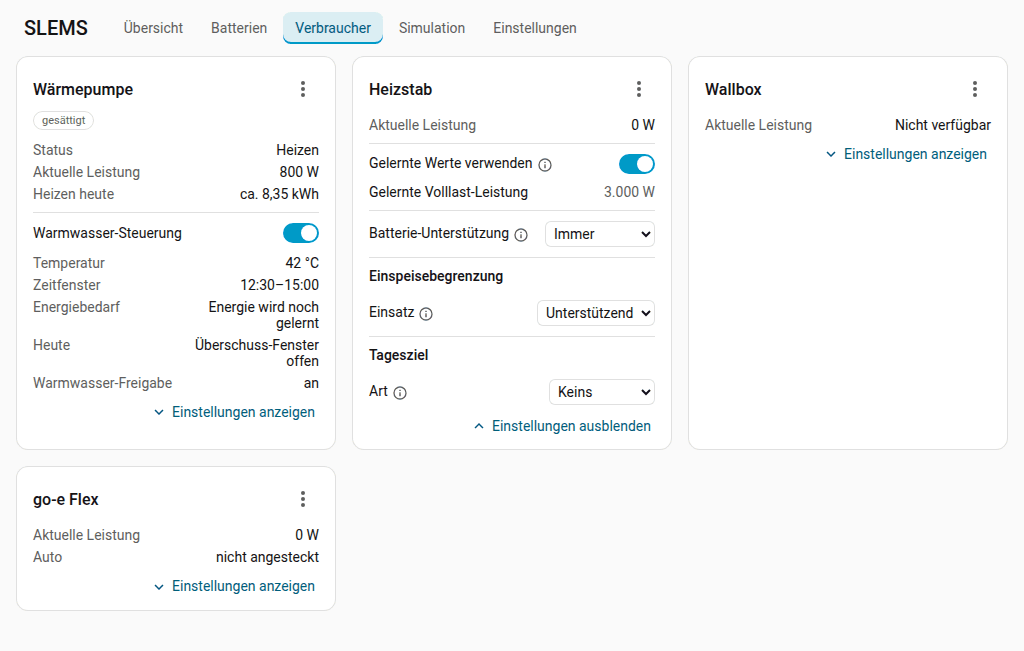
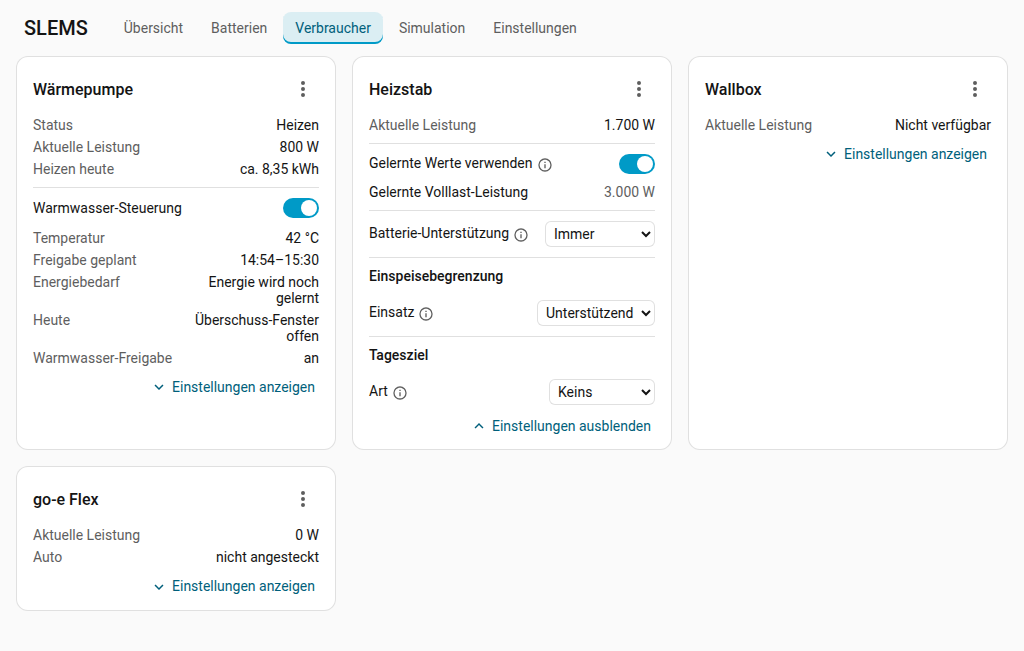
Daily target lanes: the release is one span (planned surplus window and release before the forced run merged where they overlap, two spans with a gap otherwise), the surplus window outlined in the PV colour (with the source "surplus only" only the outline), forced run and deadline as before, a legen

Changed region(s): [[0.0312, 0.1536, 0.3125, 0.6452], [0.5938, 0.1843, 0.625, 0.2151]]

diff --git a/custom_components/slems/frontend/slems-panel.js b/custom_components/slems/frontend/slems-panel.js
@@ -197,6 +197,7 @@ const STRINGS = {
     forecastToday: "Forecast today",
     aboutEnergy: "about {energy}",
     timeWindow: "Time window",
+    releasePlanned: "Release planned",
     energyNeed: "Energy needed",
     targetEnergyToday: "today about {energy}",
     enableControl: "Turn control on",
@@ -286,7 +287,9 @@ const STRINGS = {
     lanePeriod: "period {from}–{until}",
     laneWindow: "release {from}–{until}",
     laneForced: "forced {from}–{until}",
+    laneRunning: "running, until about {until}",
     laneDone: "reached",
+    laneLegend: { period: "Period", release: "Release", surplus: "Surplus window", forced: "Forced", running: "Running", deadline: "Deadline" },
     targetLatestPrice: "from {time} in the cheapest window",
     targetForcedPrice: "running in the cheapest window",
     targetDone: "reached",
@@ -958,6 +961,7 @@ const STRINGS = {
     forecastToday: "Prognose heute",
     aboutEnergy: "ca. {energy}",
     timeWindow: "Zeitfenster",
+    releasePlanned: "Freigabe geplant",
     energyNeed: "Energiebedarf",
     targetEnergyToday: "heute ca. {energy}",
     enableControl: "Steuerung einschalten",
@@ -1047,7 +1051,9 @@ const STRINGS = {
     lanePeriod: "Zeitraum {from}–{until}",
     laneWindow: "Freigabe {from}–{until}",
     laneForced: "erzwungen {from}–{until}",
+    laneRunning: "läuft, bis ca. {until}",
     laneDone: "erreicht",
+    laneLegend: { period: "Zeitraum", release: "Freigabe", surplus: "Überschuss-Fenster", forced: "Erzwungen", running: "Läuft", deadline: "Frist" },
     targetLatestPrice: "ab {time} im günstigsten Fenster",
     targetForcedPrice: "läuft im günstigsten Fenster",
     targetDone: "erreicht",
@@ -4258,10 +4264,27 @@ class SlemsPanel extends HTMLElement {
       </svg></div>`;
   }
 
-  /** Per consumer with a daily target a lane under the day chart: its period
-   * (faint), the release window before the forced run, the forced run and the
-   * deadline, on the time axis of the chart. The spans are kept in
-   * _laneSpans for the tooltip of the day chart. */
+  /** Swatch style of a part of a daily target lane (legend and tooltip). */
+  _laneSwatch(kind) {
+    const c = this._colors;
+    return {
+      period: `background:${c.consumer};opacity:0.3`,
+      release: `background:${c.consumer};opacity:0.6`,
+      surplus: `border:2px solid ${c.pv};box-sizing:border-box`,
+      forced: `background:${c.consumer};opacity:0.9`,
+      running: `background:repeating-linear-gradient(45deg, ${c.consumer} 0 2px, transparent 2px 4px)`,
+      deadline: `background:${c.consumer};width:2px`,
+    }[kind];
+  }
+
+  /** Per consumer with a daily target a lane under the day chart, on the time
+   * axis of the chart: its period (faint), the release (the planned surplus
+   * window and the window before the forced run as one span where they
+   * overlap), the surplus window outlined, the forced run and the deadline.
+   * While a hot water charge runs the release it started in stays, the
+   * release still to come and the forced run give way to the charge until
+   * about the target temperature; an interrupted charge brings them back.
+   * The spans are kept in _laneSpans for the tooltip of the day chart. */
   _targetLanes() {
     const geometry = this._chartGeometry;
     if (!geometry) return "";
@@ -4273,7 +4296,9 @@ class SlemsPanel extends HTMLElement {
     if (this._chartDay === "tomorrow") dayStart.setDate(dayStart.getDate() + 1);
     const hourOf = (iso) => (new Date(iso) - dayStart) / 3600000;
     const x = (hour) => pad.left + (Math.max(0, Math.min(24, hour)) / 24) * plotW;
+    const visible = (from, until) => until > 0 && from < 24 && until > from;
     const lanes = [];
+    const kinds = new Set();
     for (const consumer of this._config.consumers || []) {
       const attrs = this._state("planned_power", consumer.device_id)?.attributes || {};
       if (!attrs.target_type || attrs.target_type === "none" || !attrs.target_deadline) continue;
@@ -4289,48 +4314,76 @@ class SlemsPanel extends HTMLElement {
       const opens = latest !== null && attrs.target_window_opens ? hourOf(attrs.target_window_opens) : null;
       const runEnd = latest !== null ? Math.min(end, latest + (attrs.target_run_s ? attrs.target_run_s / 3600 : end - latest)) : null;
       const clock = (hour) => this._time(new Date(dayStart.getTime() + hour * 3600000).toISOString());
+      const label = (template, from, until) => template.replace("{from}", clock(from)).replace("{until}", clock(until));
+      const surplus = attrs.target_surplus_window ? attrs.target_surplus_window.map(hourOf) : null;
+      // A hot water charge running in the period (not one the heat pump started on its own before it).
+      const nowHour = hourOf(new Date().toISOString());
+      const running = Boolean(attrs.hot_water_active) && !done && attrs.target_mode !== "waiting";
+      const runUntil = running && attrs.target_run_s ? nowHour + attrs.target_run_s / 3600 : null;
+      // Released for the surplus window (with the source "surplus only" just
+      // shown) and before the forced run; while running only up to now.
+      const releases = [];
+      if (surplus && source !== "surplus") releases.push([...surplus]);
+      if (opens !== null && latest > opens) releases.push([opens, latest]);
+      const merged = [];
+      for (const [from, until] of releases.filter(([from]) => !running || from <= nowHour).sort((a, b) => a[0] - b[0])) {
+        const last = merged[merged.length - 1];
+        if (last && from <= last[1]) last[1] = Math.max(last[1], until);
+        else merged.push([from, until]);
+      }
+      const forced = latest !== null && !running ? [latest, runEnd] : null;
       // Ordered from the most specific span, which the tooltip shows.
-      const tipSpans = [];
-      const tipSpan = (from, until, opacity, label) => {
-        if (until > 0 && from < 24 && until > from)
-          tipSpans.push({ from, until, opacity, label: label.replace("{from}", clock(from)).replace("{until}", clock(until)) });
+      const parts = [];
+      const part = (kind, from, until, template, outline = false) => {
+        if (visible(from, until)) parts.push({ kind, from, until, outline, label: label(template, from, until) });
       };
-      if (latest !== null) tipSpan(latest, runEnd, 0.9, t.laneForced);
-      if (opens !== null) tipSpan(opens, latest, 0.45, t.laneWindow);
-      const surplus = attrs.target_surplus_window;
-      if (surplus) tipSpan(hourOf(surplus[0]), hourOf(surplus[1]), 0.55, t.laneSurplus);
-      tipSpan(start, end, 0.18, done ? `${t.lanePeriod} · ${t.laneDone}` : t.lanePeriod);
-      if (tipSpans.length) this._laneSpans.push({ name: consumer.name, spans: tipSpans });
-      const span = (from, until, opacity, label) =>
-        until > 0 && from < 24 && until > from
-          ? `<rect x="${x(from)}" y="0" width="${Math.max(2, x(until) - x(from))}" height="10" rx="3" fill="${c.consumer}" fill-opacity="${opacity}"><title>${escapeHtml(
-              `${consumer.name}: ${label.replace("{from}", clock(from)).replace("{until}", clock(until))}`
-            )}</title></rect>`
-          : "";
-      const surplusSpan = surplus && hourOf(surplus[1]) > 0 && hourOf(surplus[0]) < 24
-        ? `<rect x="${x(hourOf(surplus[0]))}" y="1" width="${Math.max(2, x(hourOf(surplus[1])) - x(hourOf(surplus[0])))}" height="8" rx="3" fill="${c.pv}" fill-opacity="0.55" stroke="${c.pv}"><title>${escapeHtml(
-            `${consumer.name}: ${t.laneSurplus.replace("{from}", this._time(surplus[0])).replace("{until}", this._time(surplus[1]))}`
-          )}</title></rect>`
-        : "";
-      const shapes = [
-        span(start, end, 0.18, done ? `${t.lanePeriod} · ${t.laneDone}` : t.lanePeriod),
-        surplusSpan,
-        opens !== null ? span(opens, latest, 0.45, t.laneWindow) : "",
-        latest !== null ? span(latest, runEnd, 0.9, t.laneForced) : "",
-        end > 0 && end <= 24 ? `<line x1="${x(end)}" x2="${x(end)}" y1="-3" y2="13" stroke="${c.consumer}" stroke-width="2"/>` : "",
-      ].join("");
-      lanes.push({ name: `${consumer.name}${done ? ` · ${t.laneDone}` : ""}`, shapes });
+      if (runUntil !== null) part("running", nowHour, runUntil, t.laneRunning);
+      if (forced) part("forced", ...forced, t.laneForced);
+      if (surplus) part("surplus", ...surplus, t.laneSurplus, true);
+      for (const [from, until] of merged) part("release", from, until, t.laneWindow);
+      part("period", start, end, done ? `${t.lanePeriod} · ${t.laneDone}` : t.lanePeriod);
+      if (!parts.length) continue;
+      this._laneSpans.push({
+        name: consumer.name,
+        spans: parts.map(({ from, until, kind, label }) => ({ from, until, swatch: this._laneSwatch(kind), label })),
+      });
+      const rect = ({ kind, from, until, outline, label }) => {
+        kinds.add(kind);
+        const fill = {
+          period: `fill="${c.consumer}" fill-opacity="0.18"`,
+          release: `fill="${c.consumer}" fill-opacity="0.45"`,
+          forced: `fill="${c.consumer}" fill-opacity="0.9"`,
+          running: `fill="url(#lane-running)"`,
+        }[kind];
+        const shape = outline
+          ? `x="${x(from) + 0.75}" y="0.75" width="${Math.max(2, x(until) - x(from) - 1.5)}" height="8.5" fill="none" stroke="${c.pv}" stroke-width="1.5"`
+          : `x="${x(from)}" y="0" width="${Math.max(2, x(until) - x(from))}" height="10" ${fill}`;
+        return `<rect ${shape} rx="3"><title>${escapeHtml(`${consumer.name}: ${label}`)}</title></rect>`;
+      };
+      // Drawn from the background up: the outline of the surplus window on top.
+      const order = ["period", "release", "forced", "running", "surplus"];
+      const shapes = [...parts].sort((a, b) => order.indexOf(a.kind) - order.indexOf(b.kind)).map(rect);
+      if (end > 0 && end <= 24) {
+        kinds.add("deadline");
+        shapes.push(`<line x1="${x(end)}" x2="${x(end)}" y1="-3" y2="13" stroke="${c.consumer}" stroke-width="2"/>`);
+      }
+      lanes.push({ name: `${consumer.name}${done ? ` · ${t.laneDone}` : ""}`, shapes: shapes.join("") });
     }
     if (!lanes.length) return "";
     const laneH = 30;
     const height = lanes.length * laneH + 4;
+    const legend = ["period", "release", "surplus", "forced", "running", "deadline"]
+      .filter((kind) => kinds.has(kind))
+      .map((kind) => `<span><span class="swatch" style="${this._laneSwatch(kind)}"></span>${escapeHtml(t.laneLegend[kind])}</span>`)
+      .join("");
     return `<div class="lanes"><h3 class="lanes-title">${t.lanesTitle}</h3><svg viewBox="0 0 ${width} ${height}" width="${width}" height="${height}" class="chart" role="img" aria-label="${escapeHtml(t.lanesTitle)}">
+      <defs><pattern id="lane-running" patternUnits="userSpaceOnUse" width="4" height="4" patternTransform="rotate(45)"><rect width="2" height="4" fill="${c.consumer}"/></pattern></defs>
       ${lanes
         .map(
           (lane, i) => `<g transform="translate(0 ${i * laneH})"><text x="${pad.left}" y="9" class="tick">${escapeHtml(lane.name)}</text>
             <g transform="translate(0 14)"><line x1="${pad.left}" x2="${width - pad.right}" y1="5" y2="5" stroke="${c.grid_line}"/>${lane.shapes}</g></g>`
         )
-        .join("")}</svg></div>`;
+        .join("")}</svg><div class="lanes-legend" style="padding-left:${(pad.left / width) * 100}%">${legend}</div></div>`;
   }
 
   _chartTable(rows) {
@@ -4407,7 +4460,7 @@ class SlemsPanel extends HTMLElement {
       .map((lane) => {
         const span = lane.spans.find((s) => s.from < (slot + 1) / 2 && s.until > slot / 2);
         return span
-          ? `<div><span class="swatch" style="background:${c.consumer};opacity:${Math.max(0.35, span.opacity)}"></span>${escapeHtml(
+          ? `<div><span class="swatch" style="${span.swatch}"></span>${escapeHtml(
               lane.name
             )}<b>${escapeHtml(span.label)}</b></div>`
           : "";
@@ -5422,18 +5475,32 @@ class SlemsPanel extends HTMLElement {
     const row = (label, text) => (text ? this._row(label, escapeHtml(text), planned?.entity_id) : "");
     return (
       row(t.temperature, temperature) +
-      row(t.timeWindow, windowText) +
+      row(this._targetWindowLabel(attrs, source), windowText) +
       row(t.energyNeed, energy) +
       row(this._targetWaitsForTomorrow(attrs) ? t.targetProgressTomorrow : t.targetProgress, state) +
       this._releaseRow(c)
     );
   }
 
+  /** Whether the time window row shows a planned window (surplus window or
+   * release before the forced run) rather than the set time. */
+  _targetWindowPlanned(attrs, source) {
+    return Boolean(attrs.target_surplus_window || (source !== "surplus" && attrs.target_latest_start && attrs.target_window_opens));
+  }
+
+  /** Label of the time window row: a planned release, a surplus window only
+   * shown (source "surplus only"), else the set time. */
+  _targetWindowLabel(attrs, source) {
+    const t = this._t;
+    if (attrs.target_surplus_window && source === "surplus") return t.laneLegend.surplus;
+    return this._targetWindowPlanned(attrs, source) ? t.releasePlanned : t.timeWindow;
+  }
+
   /** Planned window if there is one, else the set time: "12:08–14:38", "bis 15:30". */
   _targetWindowText(attrs, source) {
     const range = (from, until) => `${this._clock(from)}–${this._time(until)}`;
     if (attrs.target_surplus_window) return range(...attrs.target_surplus_window);
-    if (source !== "surplus" && attrs.target_latest_start && attrs.target_window_opens) {
+    if (this._targetWindowPlanned(attrs, source)) {
       return range(attrs.target_window_opens, attrs.target_latest_start);
     }
     if (!attrs.target_deadline) return "";
@@ -6255,6 +6322,8 @@ const STYLE = `
   .chart-wrap { position: relative; }
   .lanes { margin-top: 8px; }
   .lanes-title { margin: 0 0 4px; font-size: 12px; font-weight: 500; color: var(--secondary-text-color); }
+  .lanes-legend { display: flex; flex-wrap: wrap; gap: 4px 14px; margin-top: 2px; font-size: 11px; color: var(--secondary-text-color); }
+  .lanes-legend > span { display: inline-flex; align-items: center; gap: 5px; }
   .chart { display: block; max-width: 100%; }
   .chart .tick, .price-chart .tick { font-size: 11px; fill: var(--secondary-text-color); font-variant-numeric: tabular-nums; }
   #daychart, #pricechart { position: relative; }

diff --git a/docs/guide/consumers.de.md b/docs/guide/consumers.de.md
@@ -111,7 +111,8 @@ Auf der Verbraucherkarte unter **Freigabe**:
   Warmwasserladung bis zu ihrem Ende. **Nach Überschuss**: freigegeben,
   sobald genug Überschuss da ist, dann für die **Freigabedauer** und
   anschließend solange er reicht, ohne geplantes Fenster. **Nach Prognose**:
-  Karte (Zeile **Zeitfenster**) und Tagesdiagramm zeigen es, und es wird
+  Karte (Zeile **Freigabe geplant**, mit der Quelle **Nur Überschuss**
+  **Überschuss-Fenster**) und Tagesdiagramm zeigen es, und es wird
   zusätzlich für das geplante Fenster freigegeben, auch wenn der Überschuss
   kurz fehlt, damit die Automation auf ihren Moment warten kann; dann kann ein
   Teil aus Batterien oder Netz kommen. Mit der Quelle **Nur Überschuss** wird
@@ -468,8 +469,14 @@ Je gesteuertem Verbraucher, auf seiner Karte unter **Tagesziel**.
   Tagesdiagramm als **Verbraucher (geplant)** und geht in Verbrauchsprognose,
   Ladezustandsprognose und Nachtentladung ein. Unter dem Tagesdiagramm zeigt
   **Tagesziele** je Verbraucher mit Tagesziel eine Bahn: seinen Zeitraum
-  (blass), die Freigabe vor dem erzwungenen Lauf, den erzwungenen Lauf
-  und die Frist (Strich). Ein Verbraucher mit dem Einsatz
+  (blass), die Freigabe (das geplante Fenster und die Freigabe vor dem
+  erzwungenen Lauf, als ein Abschnitt, wo sie sich überlappen), das geplante
+  Fenster in der PV-Farbe umrandet, den erzwungenen Lauf und die Frist
+  (Strich); eine Legende darunter nennt, was zu sehen ist. Während eine
+  Warmwasserladung läuft, bleibt die Freigabe, in der sie begonnen hat; die
+  noch kommende Freigabe und der erzwungene Lauf weichen der Ladung
+  (schraffiert, bis etwa zur Zieltemperatur); bricht die Ladung früher ab,
+  etwa für ein Abtauen, erscheinen sie wieder. Ein Verbraucher mit dem Einsatz
   **Unterstützend** bleibt beim Überschuss-Teil außen vor, solange die
   Einspeisebegrenzung an ist: Sie plant ihn mit dem Überschuss über der
   Grenze ein.

diff --git a/docs/guide/consumers.md b/docs/guide/consumers.md
@@ -103,7 +103,8 @@ On the consumer card under **Release**:
   it up to the minimum runtime, a hot water charge until it ends. **By surplus**: released
   as soon as there is enough surplus, then for the **Release duration** and
   afterwards while it lasts, no window planned. **By forecast**: the card
-  (row **Time window**) and the day chart show it, and it is also released for
+  (row **Release planned**, with the source **Surplus only** **Surplus
+  window**) and the day chart show it, and it is also released for
   the planned window, also while the surplus dips, so the automation can wait
   for its moment; a part may then come from the batteries or the grid. With
   the source **Surplus only** the window is only shown. Once open, the window stays as
@@ -441,7 +442,12 @@ Per controlled consumer, on its card under **Daily target**.
   day chart as **Consumers (planned)** and in the consumption forecast, the state
   of charge forecast and the night discharge. Below the day chart, **Daily
   targets** shows a lane per consumer with a daily target: its period (faint),
-  the release before the forced run, the forced run and the deadline
-  (a mark). A consumer with the role
+  the release (the planned window and the release before the forced run, one
+  span where they overlap), the planned window outlined in the PV colour, the
+  forced run and the deadline (a mark); a legend below names what is shown.
+  While a hot water charge runs, the release it started in stays, the
+  release still to come and the forced run give way to the charge (hatched,
+  until about the target temperature); if the charge stops early, for
+  example for a defrost, they come back. A consumer with the role
   **Supporting** is left out of the surplus part while the feed-in cap is on:
   the feed-in cap plans it with the surplus above the limit.

diff --git a/docs/guide/dashboard.de.md b/docs/guide/dashboard.de.md
@@ -96,7 +96,8 @@ Zellausgleich und die Phase eines laufenden Ausgleichs.
 ![Reiter Verbraucher: Wärmepumpe mit Warmwasser-Steuerung, Heizstab mit Einstellungen, zwei Wallboxen](../images/dashboard_consumers_de.png)
 
 Eine Karte je Verbraucher mit den wichtigen Werten: aktuelle Leistung,
-Temperatur, **Zeitfenster** (das geplante Fenster, sonst die eingestellte Zeit),
+Temperatur, **Freigabe geplant** (das geplante Fenster; sonst **Zeitfenster** mit
+der eingestellten Zeit),
 **Energiebedarf** (der noch nötige, bei erreichtem Ziel der der nächsten
 Periode), Stand des Tagesziels und die Freigabe; bei einer Wallbox das Auto.
 Eine Wärmepumpe zeigt oben ihren **Status** und die Prognose des Tages (mit

diff --git a/docs/guide/dashboard.md b/docs/guide/dashboard.md
@@ -89,7 +89,7 @@ of a running one.
 ![Consumers tab: heat pump with its hot water control, heating rod with its settings, two wallboxes](../images/dashboard_consumers_en.png)
 
 One card per consumer with the important values: current power, temperature,
-**Time window** (the planned window, otherwise the set time), **Energy needed**
+**Release planned** (the planned window; otherwise **Time window** with the set time), **Energy needed**
 (what is still missing, with a reached target that of the coming period), state
 of the daily target and the release; for a wallbox the car. A heat pump shows
 its **Status** and today's forecast at the top (with controlled hot water
